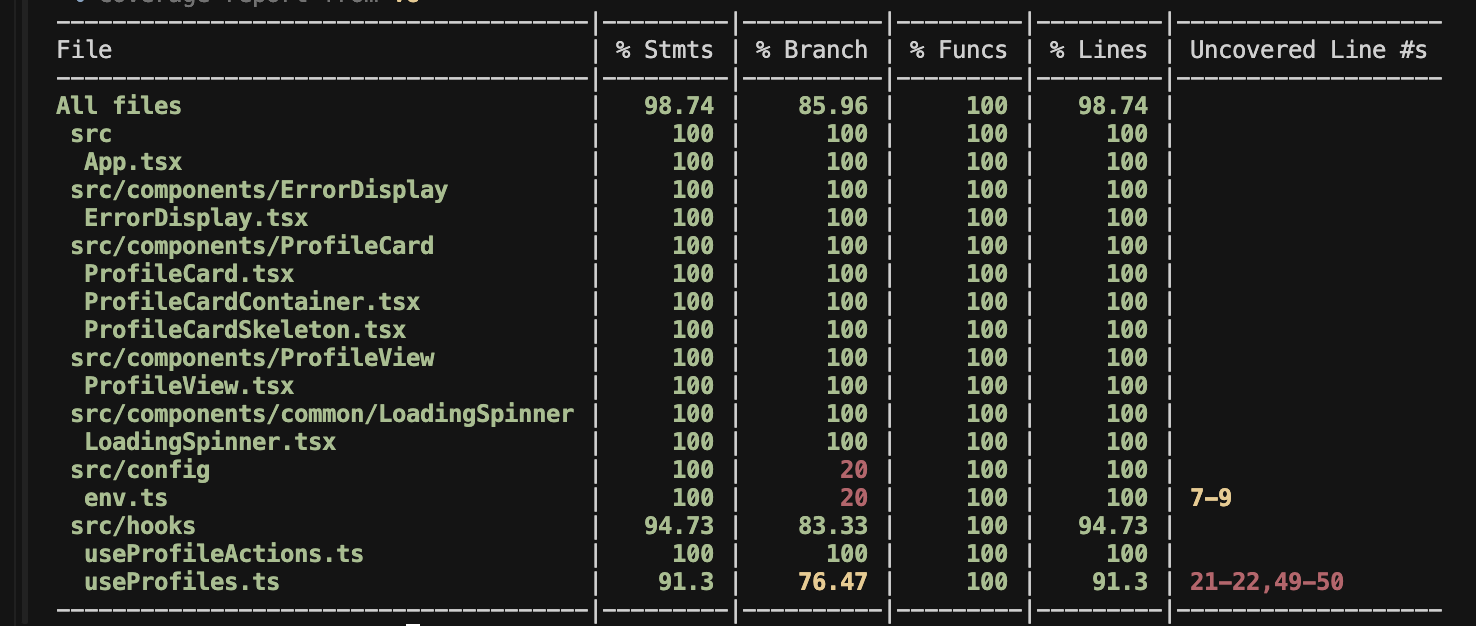
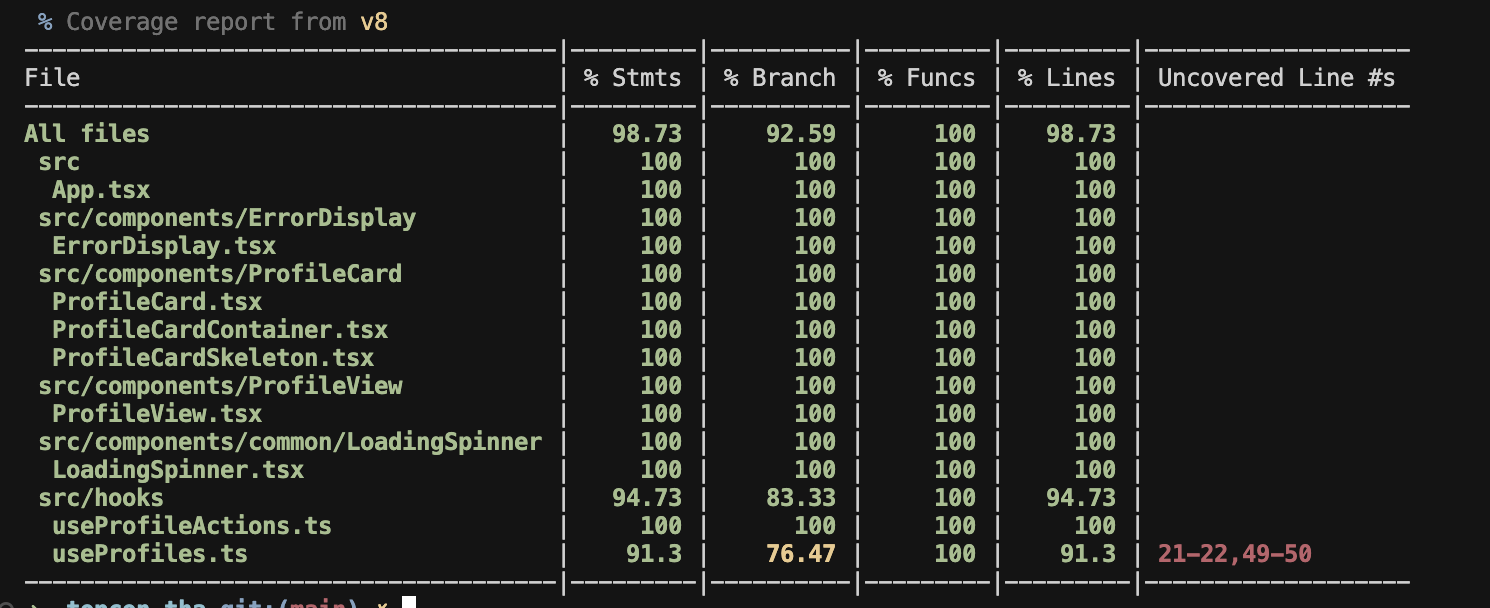
chore: Update vitest configuration to include env.ts in test coverage and remove obsolete env.test.ts file

Changed region(s): [[0.0, 0.0, 0.9661, 1.0]]

diff --git a/vitest.config.ts b/vitest.config.ts
@@ -23,6 +23,7 @@ export default defineConfig({
         '**/.{git,cache,output,temp}/**',
         '**/main.tsx',
         'src/services/profileService.ts',
+        'src/config/env.ts',
         'src/types/**',
         'src/theme/**',
       ]      
